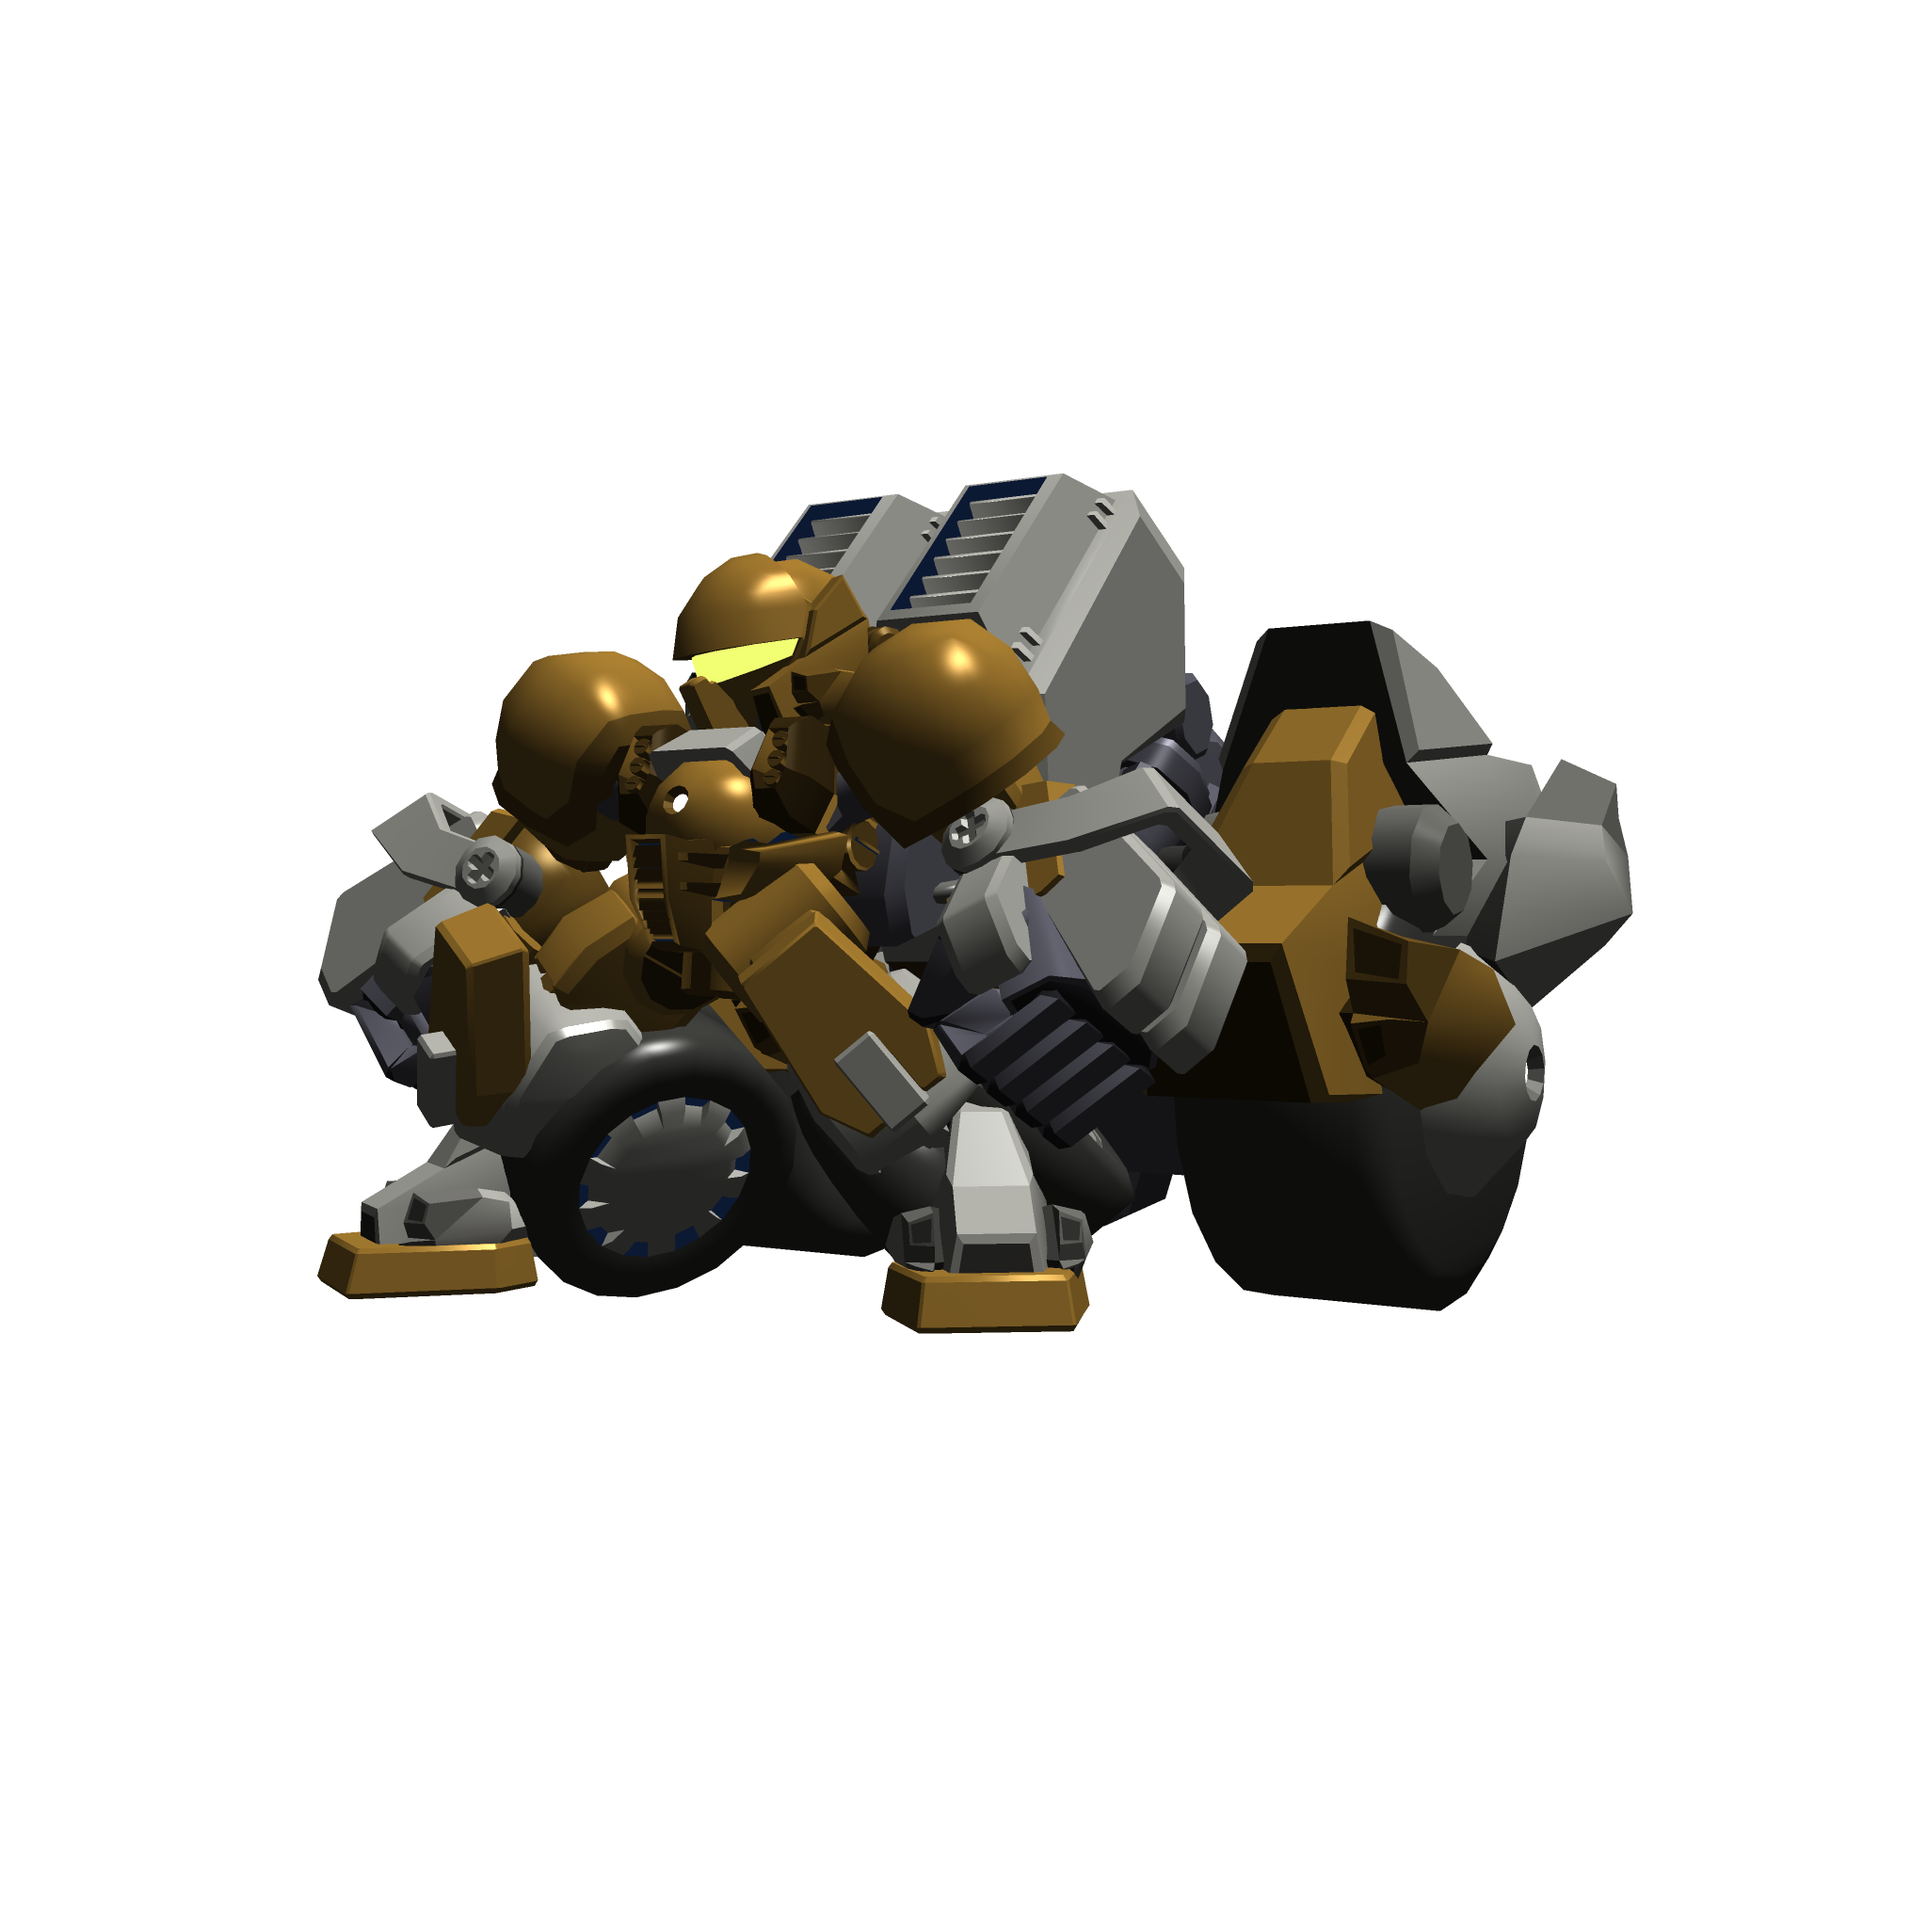
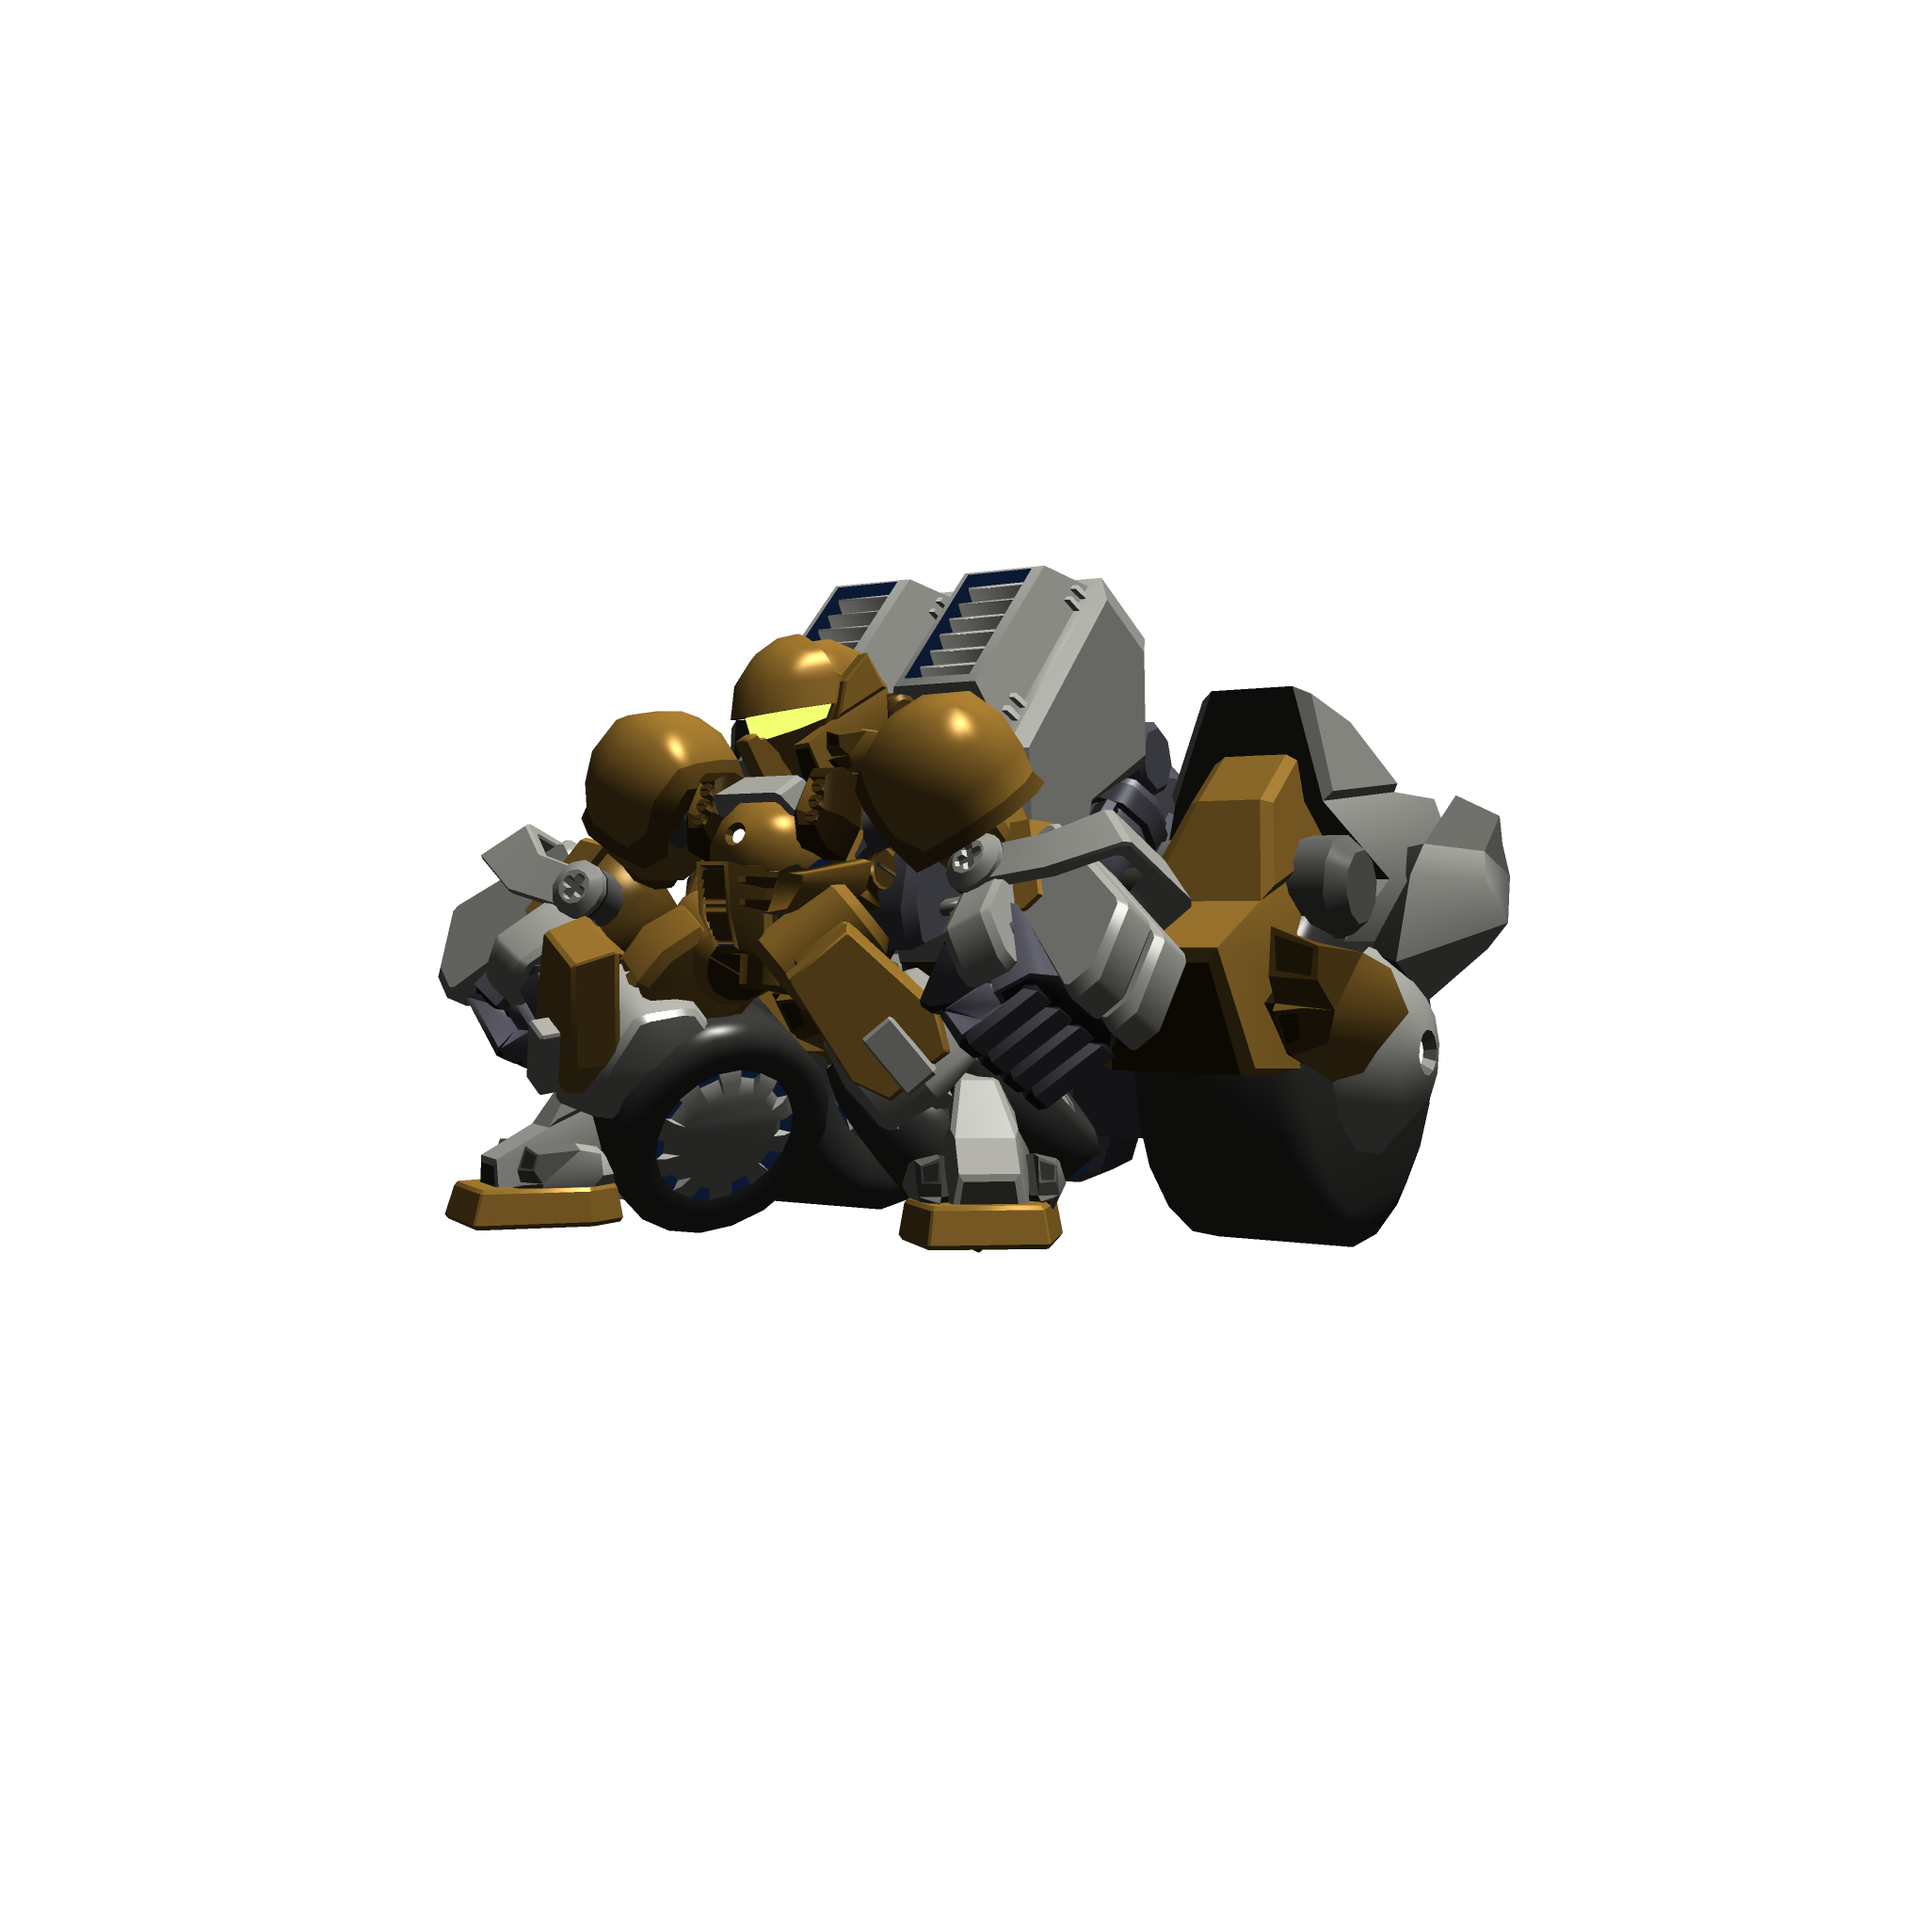
立ちポーズを修正

Changed region(s): [[0.1562, 0.25, 0.8438, 0.7188]]

diff --git a/src/js/game-object/armdozer/gran-dozer/meshes/create-animation-meshes.ts b/src/js/game-object/armdozer/gran-dozer/meshes/create-animation-meshes.ts
@@ -6,10 +6,10 @@ import { AnimationType } from "../model/animation-type";
 import { AnimationMesh } from "./animation-mesh";
 
 /** メッシュ幅 */
-const MESH_WIDTH = 700;
+const MESH_WIDTH = 900;
 
 /** メッシュ高 */
-const MESH_HEIGHT = 700;
+const MESH_HEIGHT = 900;
 
 /** オフセット座標 */
 const OFFSET = {
